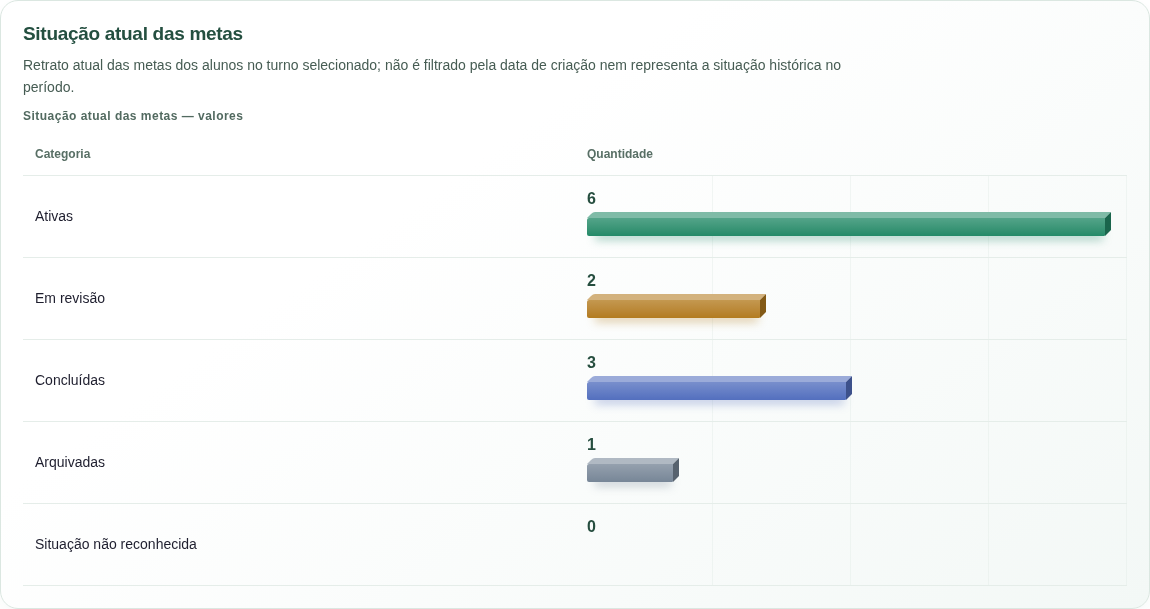
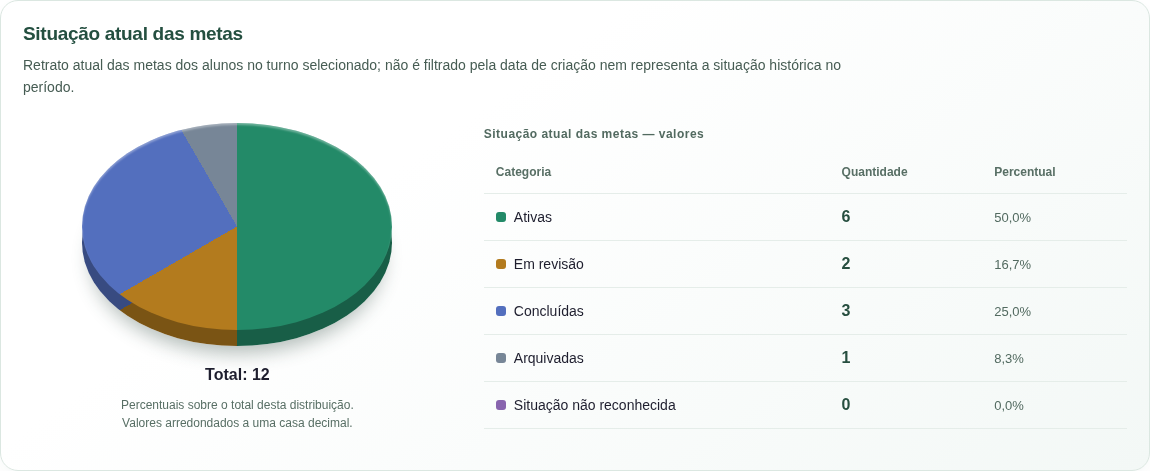
Apply pie layout to goal preview and verify empty and single-category charts

diff --git a/estatisticas.js b/estatisticas.js
@@ -61,7 +61,7 @@
   grafico(output,'Frequência diária',Object.entries(labels).map(([k,t])=>[t,r.diarios[k]]),'Inclui '+r.semanas+' semana(s) pela data de início, considerando a semana inteira. Um aluno/dia conta uma vez por semana, mesmo com dois horários. Sem marcação usa a grade atual e não equivale a falta.','pizza');
   for(const [key,title]of [['antigos','Marcações semanais antigas'],['semDia','Marcações sem dia reconhecido']])if(Object.values(r[key]).some(v=>v))grafico(output,title,Object.entries(labels).map(([k,t])=>[t,r[key][k]]),'Contagens separadas da frequência diária para evitar somar registros com unidades diferentes.');
   if(!r.semanas)output.append(n('p','Não há semanas com data válida nesse intervalo e turno. Isso não significa ausência dos alunos.'));
-  grafico(output,'Situação atual das metas',Object.entries(metaLabels).map(([k,t])=>[t,r.metas[k]]),'Retrato atual das metas dos alunos no turno selecionado; não é filtrado pela data de criação nem representa a situação histórica no período.');
+  grafico(output,'Situação atual das metas',Object.entries(metaLabels).map(([k,t])=>[t,r.metas[k]]),'Retrato atual das metas dos alunos no turno selecionado; não é filtrado pela data de criação nem representa a situação histórica no período.','pizza');
   output.append(n('p',r.metasSemRevisao+' meta(s) ativa(s) ou em revisão sem data de revisão válida. Os gráficos indicam organização do trabalho, não percentual de evolução pedagógica.'));
  }
  async function consultar(){
